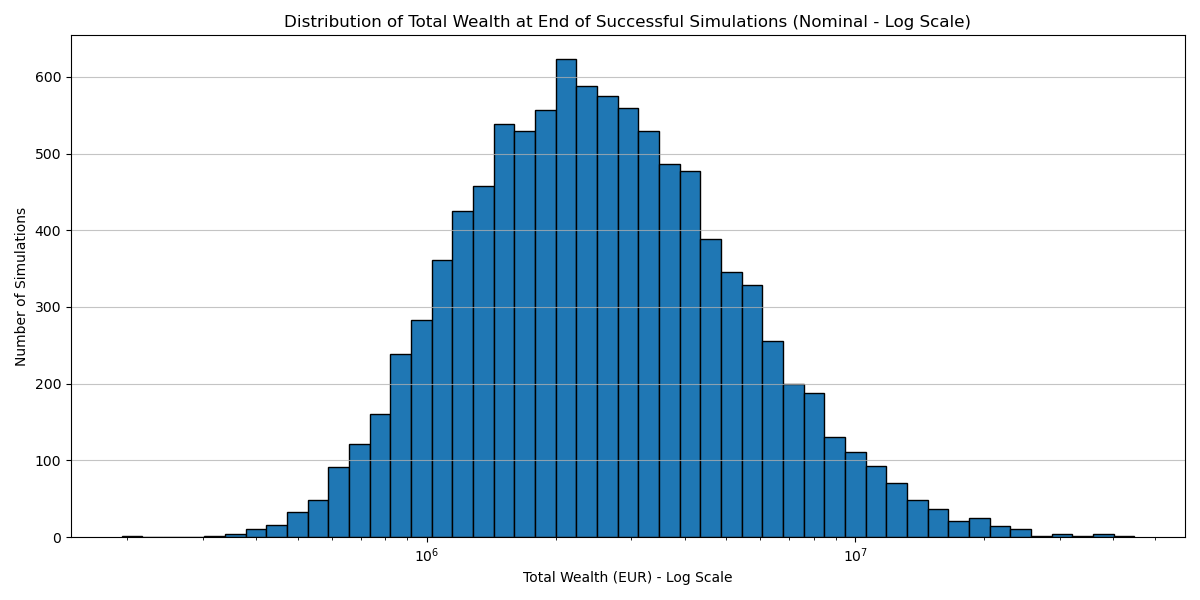
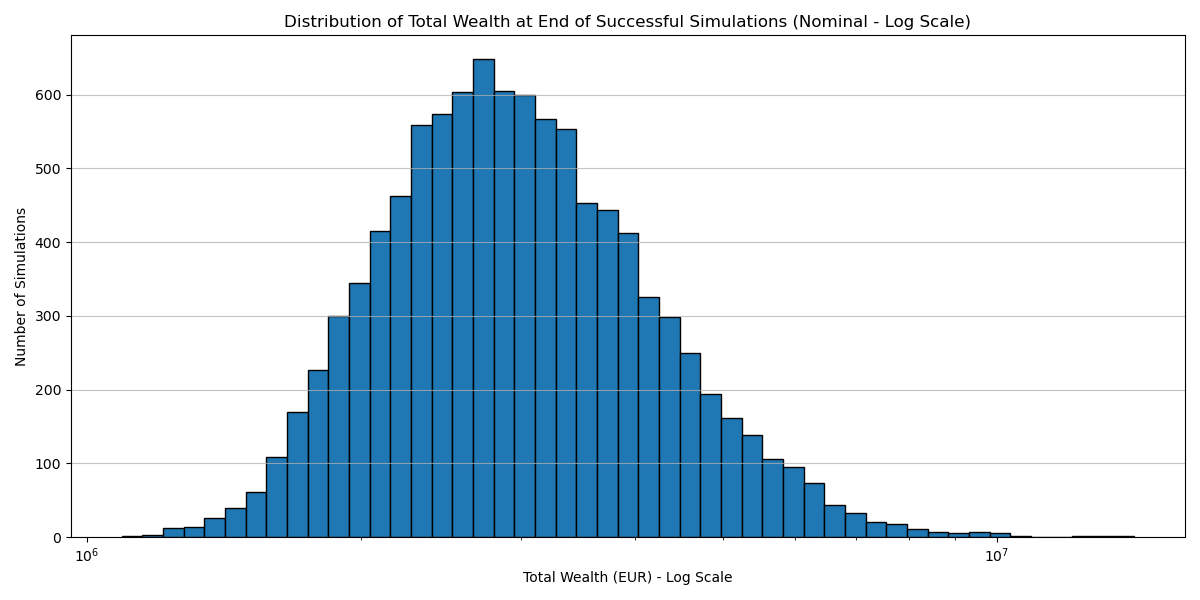
Now we have a salary.

diff --git a/simulation.py b/simulation.py
@@ -13,6 +13,7 @@ def run_single_fire_simulation(
     C_planned,
     X_planned_extra,
     P_real_monthly, PENSION_INFLATION_ADJUSTMENT_FACTOR, Y_P_start_idx,
+    S_real_monthly, SALARY_INFLATION_ADJUSTMENT_FACTOR, Y_S_start_idx, Y_S_end_idx,
     mu_pi, sigma_pi,
     REBALANCING_YEAR_IDX,
     W_P1_STOCKS, W_P1_BONDS, W_P1_STR, W_P1_FUN, W_P1_REAL_ESTATE,
@@ -148,6 +149,10 @@ def run_single_fire_simulation(
         P_real_monthly, Y_P_start_idx, annual_inflations_seq
     )
 
+    nominal_salary_start_amount = inflate_amount_over_years(
+        S_real_monthly, Y_S_start_idx, annual_inflations_seq
+    )
+
     # Simulation loop
     for current_month_idx in range(T_ret_months):
         months_lasted += 1
@@ -162,6 +167,22 @@ def run_single_fire_simulation(
             
             nominal_pension_monthly = nominal_pension_start_amount * pension_inflation_factor
             current_b += nominal_pension_monthly # Pension directly to bank account
+
+        # 2. Add monthly salary if applicable
+        nominal_salary_monthly = 0
+        # Check if current year is within the salary start and end range (exclusive end year)
+        if Y_S_start_idx <= current_year_idx < Y_S_end_idx:
+            # Adjust salary by its specific inflation factor from start year
+            salary_inflation_factor_period = 1
+            if current_year_idx > Y_S_start_idx:
+                # If SALARY_INFLATION_ADJUSTMENT_FACTOR is 1.0, this calculates regular inflation.
+                # If it's > 1.0, it means salary grows faster than inflation.
+                # If it's < 1.0, it means salary grows slower than inflation.
+                salary_inflation_factor_period = np.prod(1 + (annual_inflations_seq[Y_S_start_idx:current_year_idx] * SALARY_INFLATION_ADJUSTMENT_FACTOR))
+
+            nominal_salary_monthly = nominal_salary_start_amount * salary_inflation_factor_period
+            current_b += nominal_salary_monthly # Salary directly to bank account
+
 
         # --- Check and Top-Up Bank Account if below Real Lower Bound ---
         # Calculate current cumulative inflation factor for real value assessment
@@ -529,7 +550,7 @@ def run_single_fire_simulation(
         # Record nominal wealth at the end of the month
         nominal_wealth_history.append(current_b + current_stocks + current_bonds + current_str + current_fun + current_real_estate)
         bank_balance_history.append(current_b)
-        
+
     # --- ADD THIS DEBUG LINE HERE ---
     #   print(f"DEBUG RE: Year {current_year_idx}, Month {month_in_year_idx}: Real Estate = {current_real_estate:,.2f}")
     # --- END DEBUG LINE ---

diff --git a/main.py b/main.py
@@ -72,6 +72,11 @@ def main():
     P_real_monthly = det_inputs['P_real_monthly']
     PENSION_INFLATION_ADJUSTMENT_FACTOR = det_inputs['PENSION_INFLATION_ADJUSTMENT_FACTOR']
     Y_P_start_idx = det_inputs['Y_P_start_idx']
+    
+    S_real_monthly = det_inputs['S_real_monthly']
+    SALARY_INFLATION_ADJUSTMENT_FACTOR = det_inputs['SALARY_INFLATION_ADJUSTMENT_FACTOR']
+    Y_S_start_idx = det_inputs['Y_S_start_idx']
+    Y_S_end_idx = det_inputs['Y_S_end_idx']
 
     eco_assumptions = config_data['economic_assumptions']
     STOCK_MU = eco_assumptions['STOCK_MU']
@@ -151,6 +156,10 @@ def main():
     print(f"P_real_monthly: {P_real_monthly:,.2f}")
     print(f"PENSION_INFLATION_ADJUSTMENT_FACTOR: {PENSION_INFLATION_ADJUSTMENT_FACTOR}")
     print(f"Y_P_start_idx: {Y_P_start_idx}")
+    print(f"S_real_monthly: {S_real_monthly:,.2f}")
+    print(f"SALARY_INFLATION_ADJUSTMENT_FACTOR: {SALARY_INFLATION_ADJUSTMENT_FACTOR}")
+    print(f"Y_S_start_idx: {Y_S_start_idx}")
+    print(f"Y_S_end_idx: {Y_S_end_idx}")
 
     print("\n--- Economic Assumptions ---")
     print(f"STOCK_MU: {STOCK_MU:.4f}, STOCK_SIGMA: {STOCK_SIGMA:.4f}")
@@ -201,6 +210,7 @@ def main():
             list(C_planned),
             list(X_planned_extra),
             P_real_monthly, PENSION_INFLATION_ADJUSTMENT_FACTOR, Y_P_start_idx,
+            S_real_monthly, SALARY_INFLATION_ADJUSTMENT_FACTOR, Y_S_start_idx, Y_S_end_idx,
             mu_pi, sigma_pi,
             REBALANCING_YEAR_IDX,
             W_P1_STOCKS, W_P1_BONDS, W_P1_STR, W_P1_FUN, W_P1_REAL_ESTATE,
